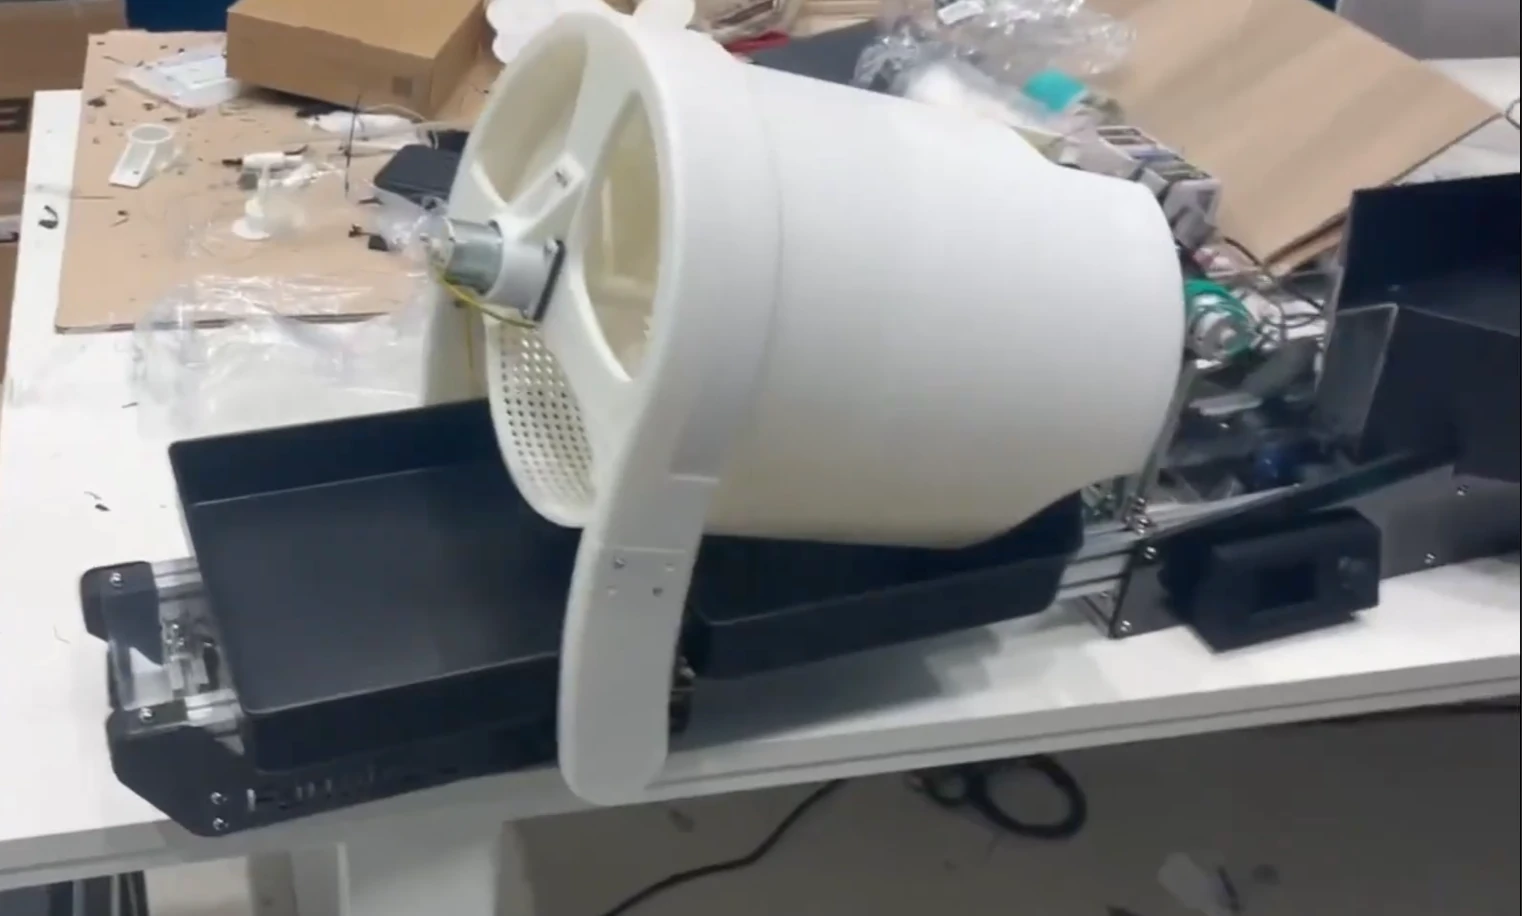
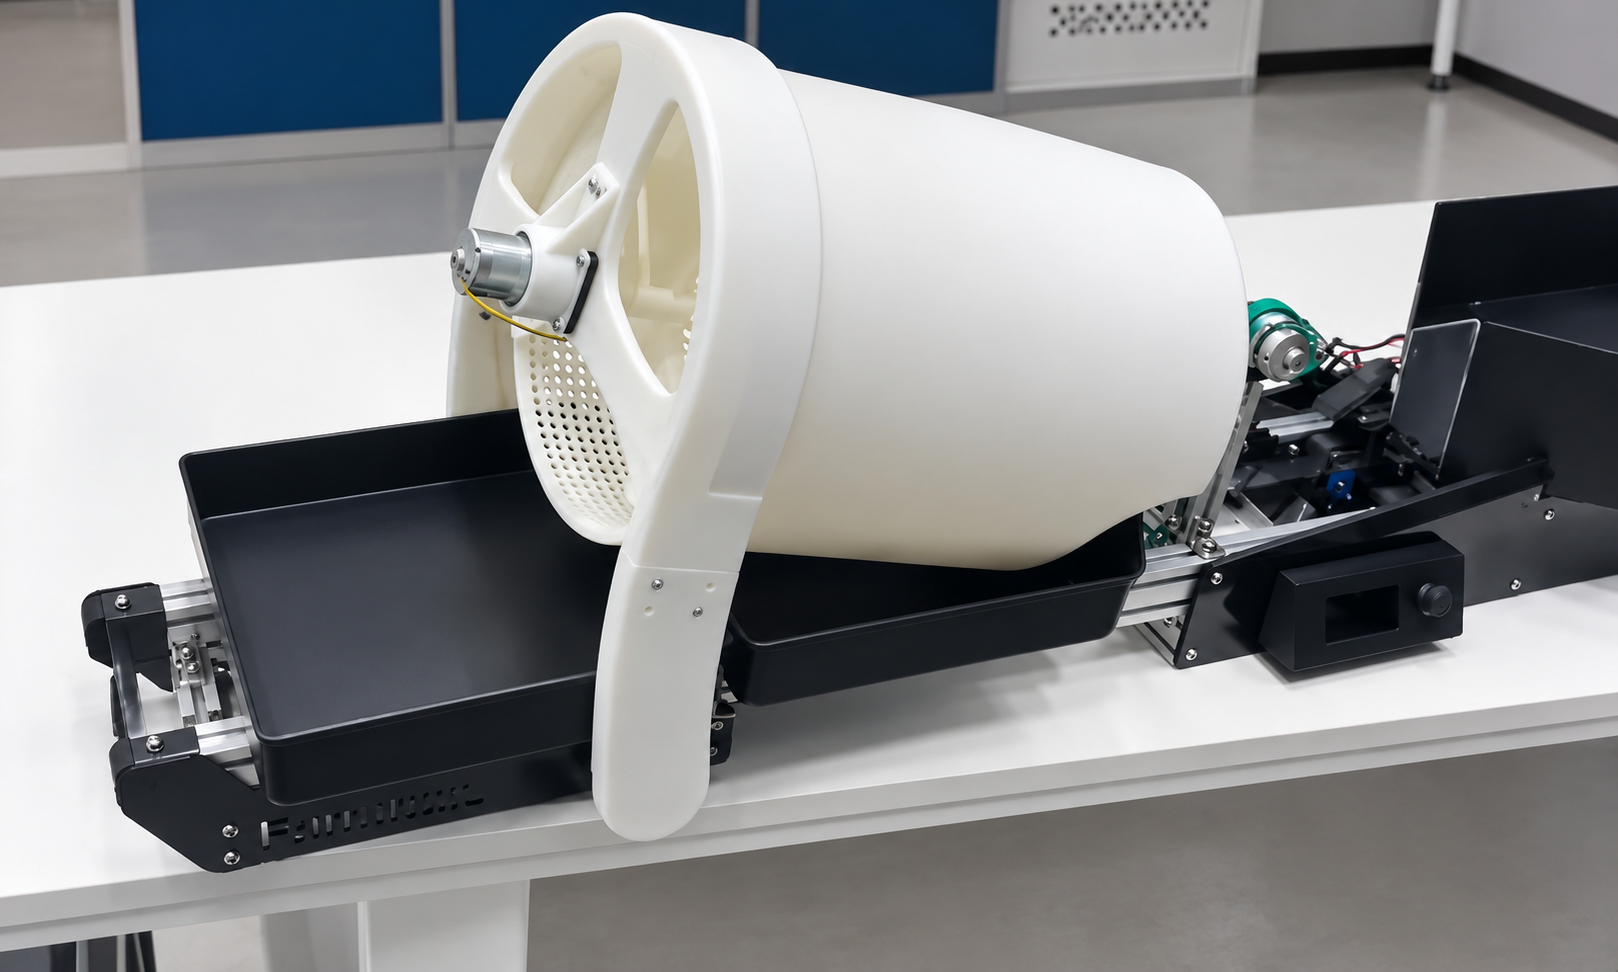
Replace Tanghulu project photo

diff --git a/_portfolio/tanghulu-maker.md b/_portfolio/tanghulu-maker.md
@@ -12,7 +12,7 @@ technologies:
 - OLED display
 - DC motor
 - Fusion 360
-image: /images/projects/tanghulu-maker.webp
+image: /images/projects/tanghulu-maker.webp?v=2e1715cf4756
 image_alt: Automated Tanghulu Manufacturing Machine — project image
 external_url: https://youtu.be/RuwLuphqz50
 external_label: Watch demonstration
